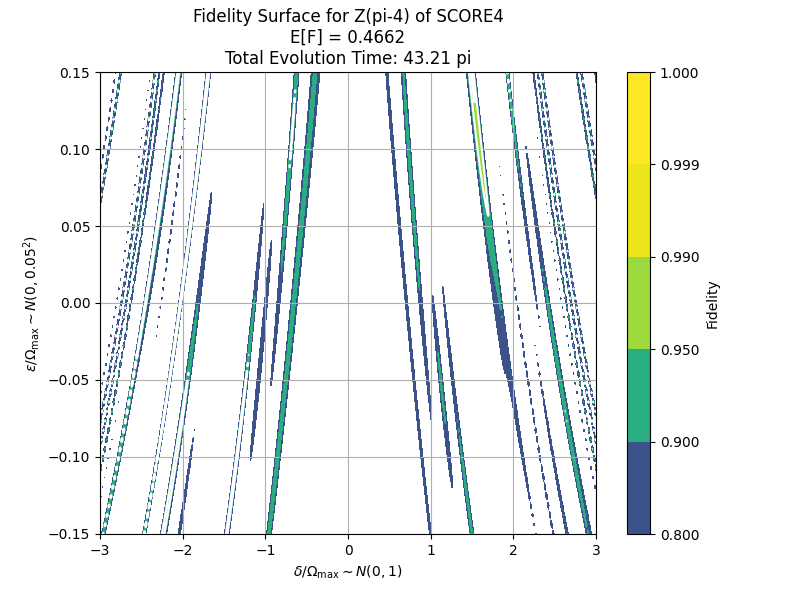
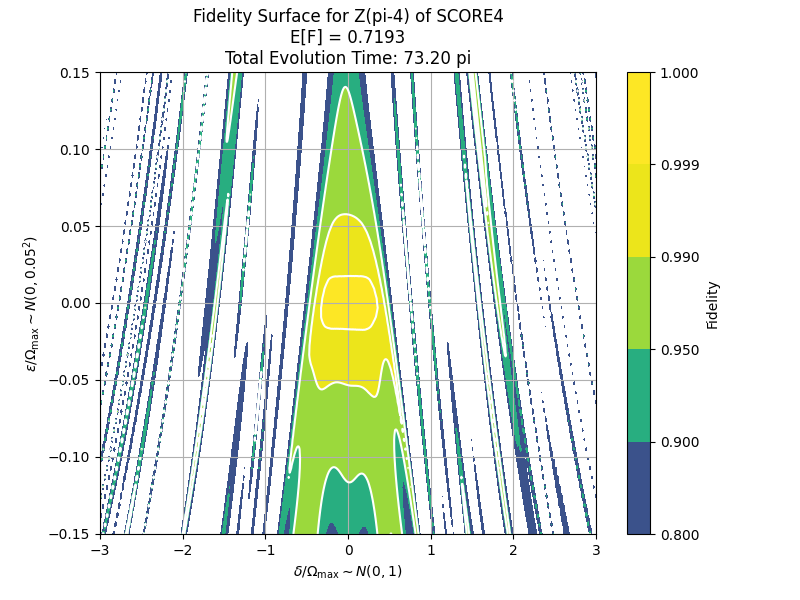
Z(pi/4) Figure updated for SCORE4

Changed region(s): [[0.125, 0.09, 0.75, 0.9], [0.4375, 0.03, 0.5, 0.09]]

diff --git a/visualize/single_qubit_visualization.py b/visualize/single_qubit_visualization.py
@@ -105,8 +105,8 @@ if __name__ == "__main__":
         "X(pi)", "X(pi-2)", "Hadamard", "Z(pi-4)"
     ]
 
-    for target_name, U_target, pulse in zip(train_set_name, train_set, pulses):
-        visualize(target_name, U_target, pulse, "Transformer CP", True)
+    # for target_name, U_target, pulse in zip(train_set_name, train_set, pulses):
+    #     visualize(target_name, U_target, pulse, "Transformer CP", True)
 
     SCORE_pulses = build_SCORE_pulses()
 

diff --git a/visualize/SCORE_visualization.py b/visualize/SCORE_visualization.py
@@ -39,7 +39,7 @@ unitaries = {
     "X(pi)" : [(1, 0)],
     "X(pi/2)" : [(1/2, 0)],
     "H" : [(1, 0), (1/2, 1/2)],
-    "Z(pi/4)" : [(1/2, 0), (1/4, 1/2), (1/2, 0)]
+    "Z(pi/4)" : [(1, 0), (1/2, 1/2), (1/4, 0), (1, 0), (1/2, 1/2)]
 }
 
 
@@ -70,7 +70,7 @@ def SCOREn_config(n, phi):
         })
 
     config_to_tensor = [
-        [0, 1, x["phi"], torch.sin(x["theta"]) * x["angle"]]
+        [0, 1, x["phi"], x["angle"]]
         for x in config
     ]
 
